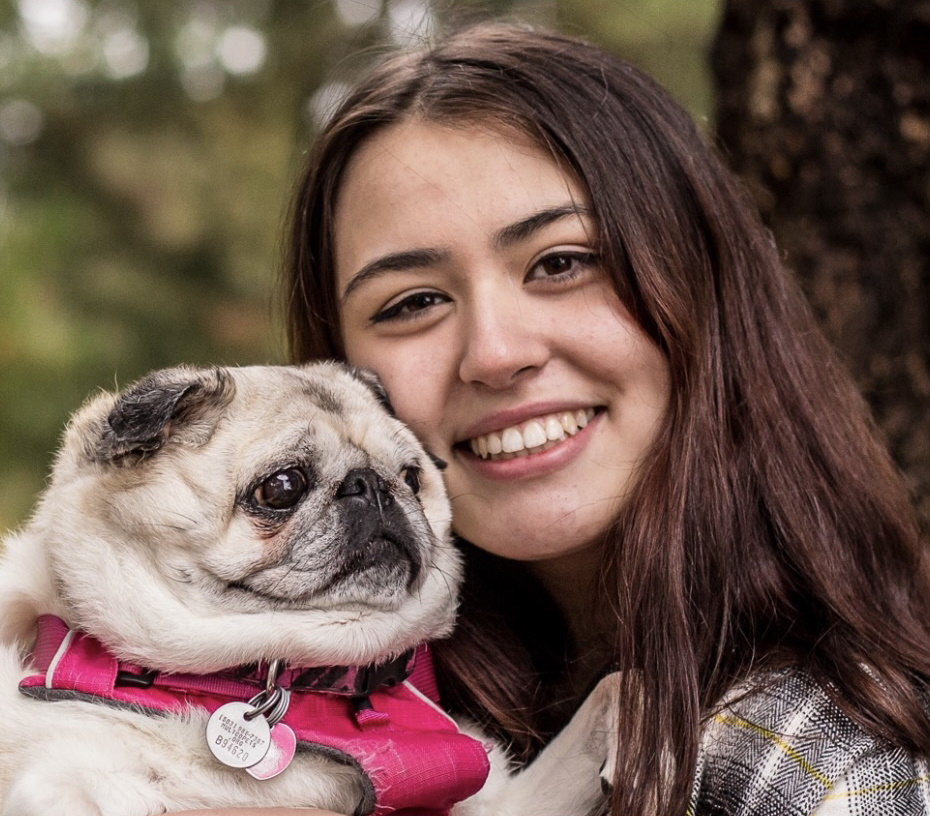
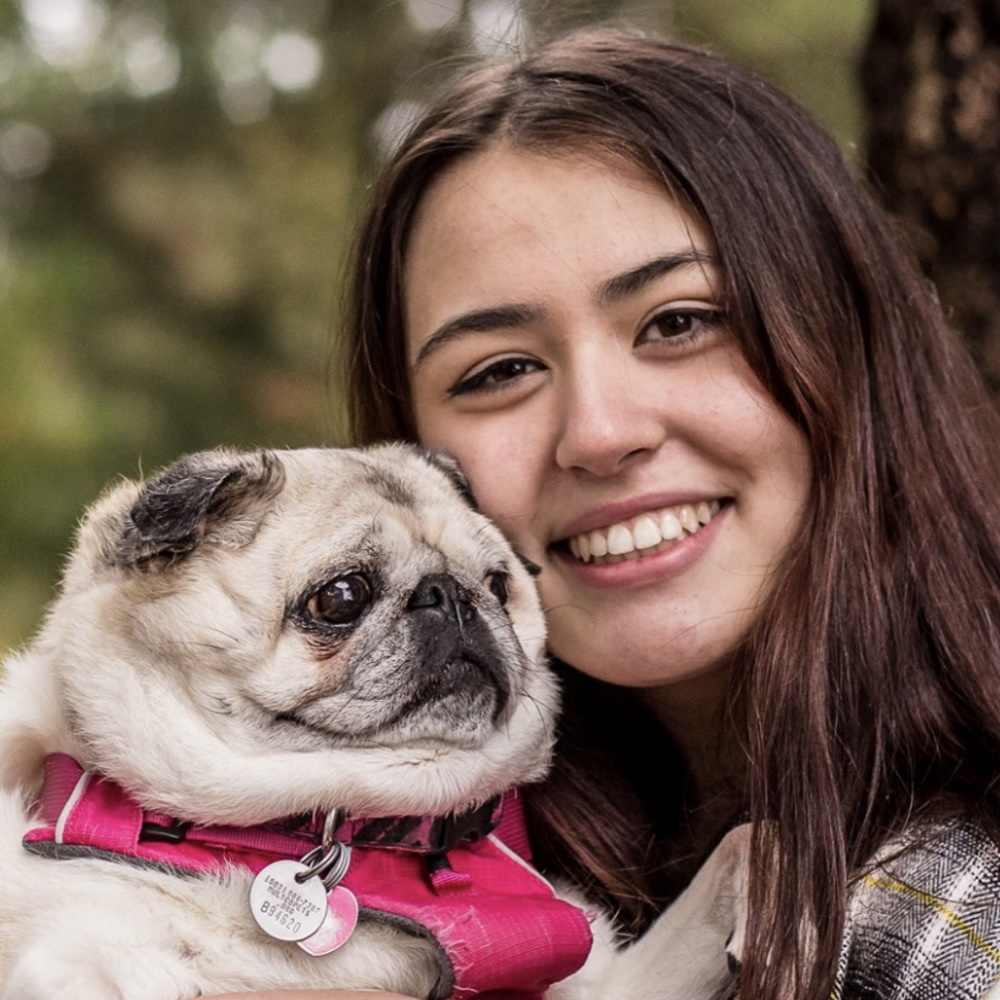
images updated

diff --git a/index.html b/index.html
@@ -99,7 +99,7 @@ and for individuals getting contacts i think we can do that in the about me page
     <div class="div5"> 
       <div class='member'>
         <a href='/profiles/jake.html'>
-        <img src='https://avatars.dicebear.com/api/bottts/Jake.svg' alt='Jake' id='team-member'/>
+        <img src='/profiles/jakeHeadshot.jpg' alt='Jake' id='team-member'/>
         <span class='caption'>Jake</a></span>
       </div>
     </div>

diff --git a/profiles/jake.html b/profiles/jake.html
@@ -21,7 +21,7 @@
           <div>
             <div class = "shadow">
               <div class = "about-img">
-                <img src = "jamesHeadshot.jpg" alt = "about image">
+                <img src = "jakeHeadshot.jpg" alt = "about image">
               </div>
             </div>
 

diff --git a/style.css b/style.css
@@ -302,8 +302,13 @@ input[name="r"]{
   gap: 4px;
   align-items: center;
   justify-items: center;
-  
+
   }
+
+  img {
+    width: auto; 
+    max-height: 100%; 
+   }
   
   .div1 { grid-area: 1 / 1 / 2 / 2; }
   .div2 { grid-area: 2 / 1 / 3 / 2; }
